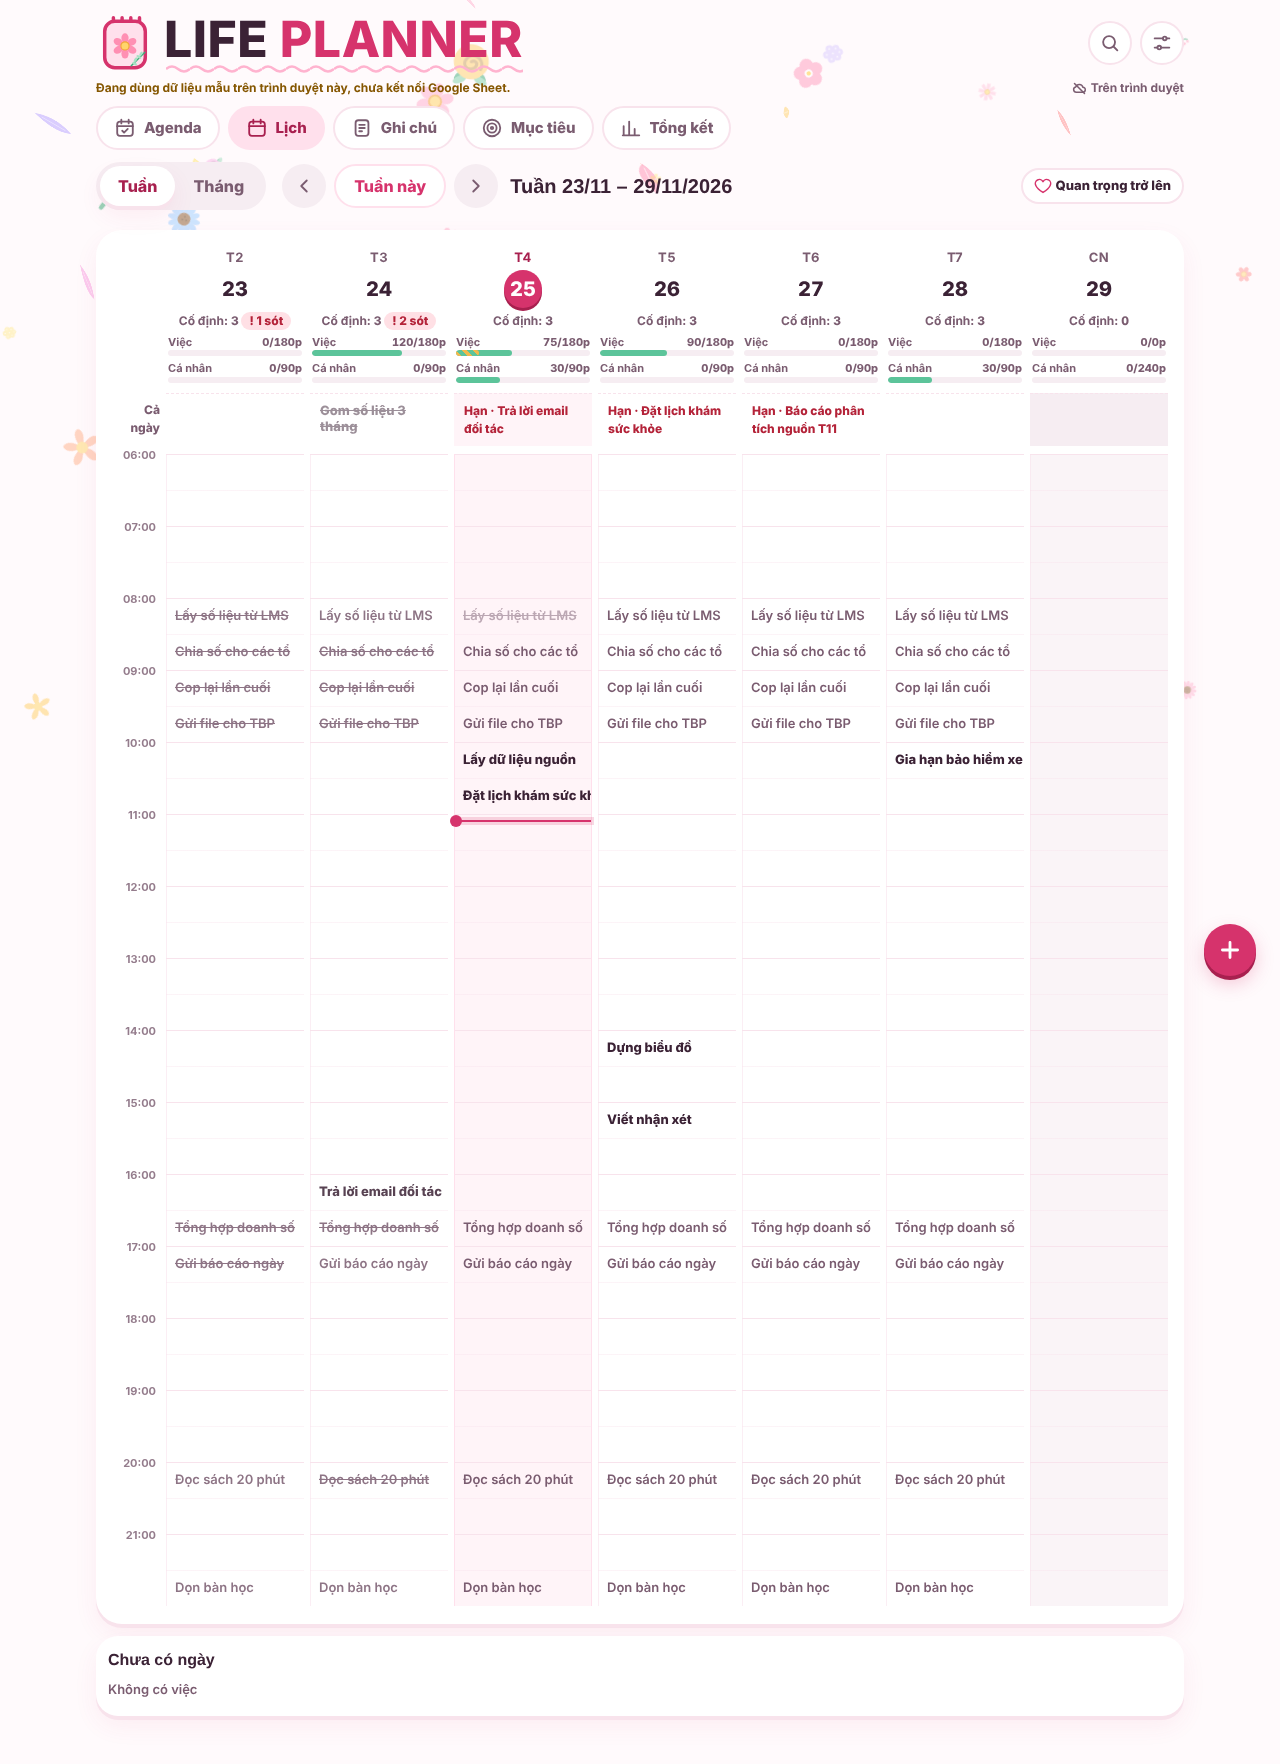
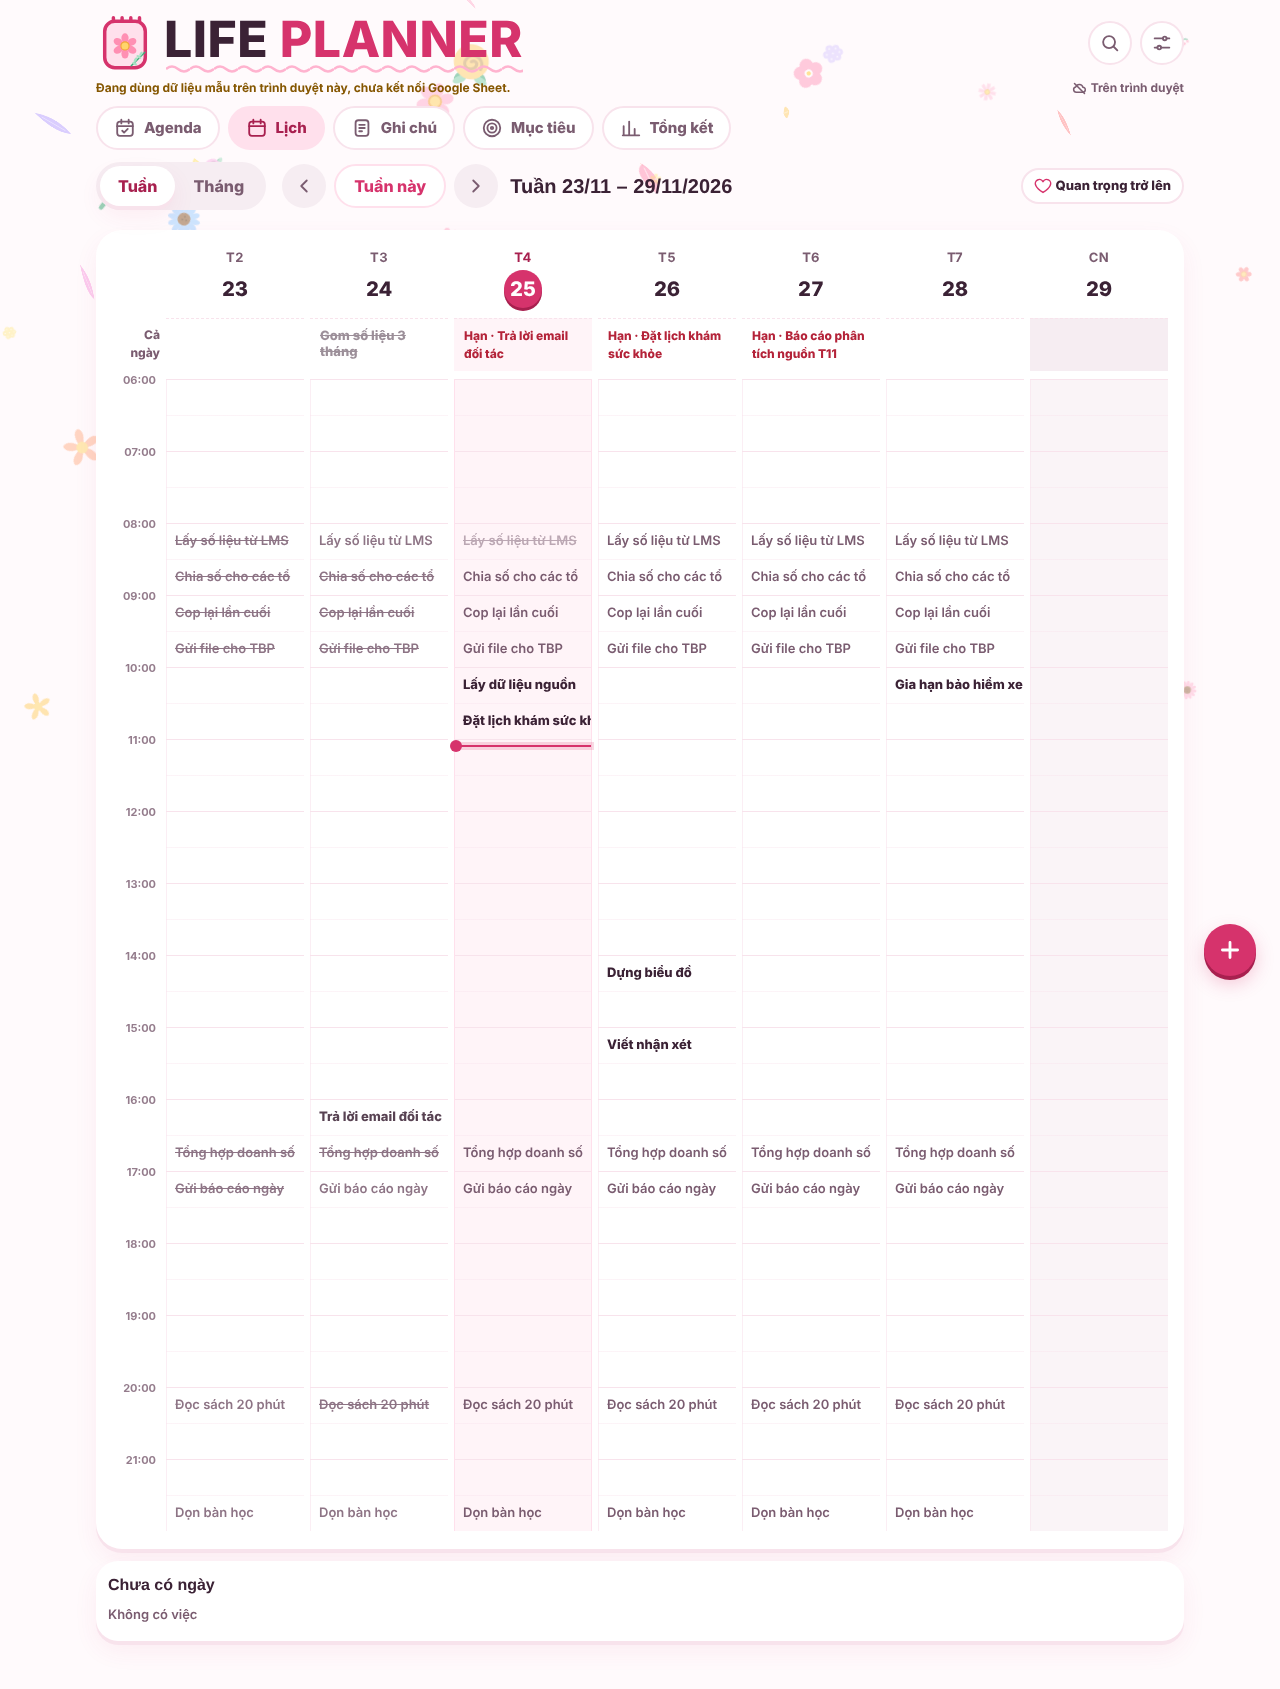
V2 phần 2: bỏ thanh Cố định và quỹ giờ ở đầu cột Lịch tuần
Claude-Session: https://claude.ai/code/session_0149sgxvQkzZWaA52nFUEmMD

diff --git a/tests-qa/v2/phan-2.js b/tests-qa/v2/phan-2.js
@@ -37,8 +37,6 @@ module.exports = async function (h) {
     A.ok(inAgenda, 'Agenda T5 không có việc');
     A.strictEqual(await q('2026-11-25'), b4 - 20); A.strictEqual(await q('2026-11-26'), b5 + 20);
     A.ok(await col(page, '2026-11-26').locator('.lblk[data-task="t-kham"]').count(), 'khối chưa sang cột T5');
-    const lbl = (await page.locator('.lhead[data-date="2026-11-26"] .qbar').nth(1).innerText());
-    A.ok(lbl.includes(String(b5 + 20) + '/'), 'thanh quỹ cột T5: ' + lbl);
     // Hoàn tác
     await page.locator('.toast [data-t="act"]').click();
     A.strictEqual(await doDate(page, 't-kham'), '2026-11-25');
@@ -78,13 +76,14 @@ module.exports = async function (h) {
 
   await h.test('4. Lọc "Quan trọng trở lên": thẻ 1 trái tim mờ đi, thanh quỹ vẫn đủ', async () => {
     const page = await h.open({ w: 1280, h: 1600, hash: WEEK });
-    const qsel = '.lhead[data-date="2026-11-28"] .qbar';
-    const quotaBefore = await page.locator(qsel).nth(1).innerText();
+    const q = () => page.evaluate(() => LP.logic.tasks.capacity('2026-11-28').evening.used);
+    const quotaBefore = await q();
+    A.strictEqual(await page.locator('.lhead .qbar, .lhead .lday-fixed').count(), 0, 'đầu cột không còn thanh quỹ/cố định');
     await page.locator('.lich-filter').click();
     const low = page.locator('.lblk[data-task="t-baohiem"]'), high = page.locator('.lblk[data-task="t-kham"]');
     A.ok(await low.evaluate(e => e.classList.contains('dim')), 'thẻ 1 trái tim chưa mờ');
     A.ok(!(await high.evaluate(e => e.classList.contains('dim'))), 'thẻ 2 trái tim bị mờ');
-    A.strictEqual(await page.locator(qsel).nth(1).innerText(), quotaBefore);
+    A.strictEqual(await q(), quotaBefore);
   });
 
   await h.test('G1. Lưới giờ: mục nằm đúng giờ, cao theo thời lượng, trùng giờ thì đứng cạnh nhau', async () => {

diff --git a/src/v2/js/views/lich-tuan.js b/src/v2/js/views/lich-tuan.js
@@ -193,13 +193,10 @@ LP.lich = (function () {
 
   function headHtml(d) {
     var today = D.today(), off = D.isDayOff(d), past = d < today;
-    var runs = LP.logic.routines.runsFor(d), sum = past ? LP.logic.routines.summary(d) : null;
     return '<div class="lhead' + (d === today ? ' is-today' : '') + (off || D.dow(d) === 7 ? ' is-off' : '') + '" data-date="' + d + '">' +
       '<div class="lday-head"><span class="lday-dow">' + D.weekdayShort(d) + '</span><b class="num lday-num" title="' + D.fmtFull(d) + (d === today ? ' · hôm nay' : '') + '">' + parseInt(d.slice(8), 10) + '</b>' +
       (off ? '<span class="pill">Nghỉ</span>' : '') + '</div>' +
-      '<button type="button" class="lday-fixed" data-agenda="' + d + '">Cố định: <b class="num">' + runs.length + '</b>' +
-      (past && sum.total ? (sum.missed ? ' <span class="miss">! ' + sum.missed + ' sót</span>' : ' <span class="full">' + UI.icon('check', 'ic18') + '</span>') : '') + '</button>' +
-      quotaBars(LP.logic.tasks.capacity(d)) + '</div>';
+      '</div>';
   }
 
   function renderGrid() {
